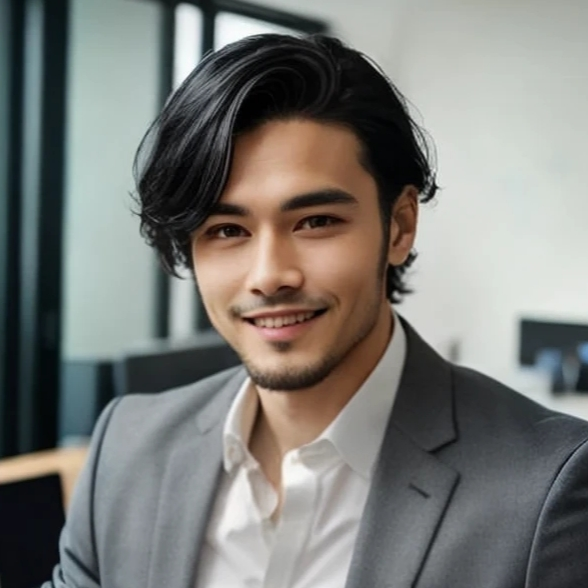
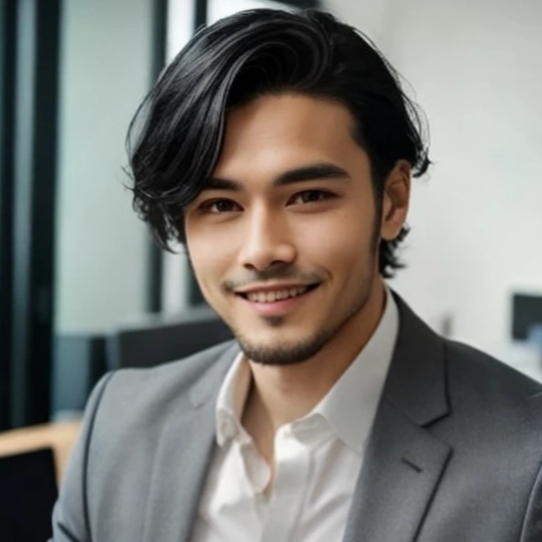
Cleanup assets
This commit is all about cleaning up assets and modifying some of the
existing ones. Updated two TeamShowcase photos, and also changed the
tab text to "Skylite" and added own favicon icon to the project.

diff --git a/src/components/TeamShowcase.vue b/src/components/TeamShowcase.vue
@@ -84,7 +84,7 @@ onMounted(() => {
                 <div class="emp-visual">
                     <div class="photo-wrapper">
                         <div class="photo-box">
-                            <img loading="lazy" class="emp-photo shadow-black" src="../assets/emp-images/natalie.jpg" />
+                            <img loading="lazy" class="emp-photo shadow-black" src="../assets/emp-images/anna.jpg" />
                         </div>
                     </div>
                 </div>
@@ -109,18 +109,18 @@ onMounted(() => {
                 <div class="emp-visual">
                     <div class="photo-wrapper">
                         <div class="photo-box">
-                            <img loading="lazy" class="emp-photo shadow-black" src="../assets/emp-images/julia.jpg" />
+                            <img loading="lazy" class="emp-photo shadow-black" src="../assets/emp-images/kate.jpg" />
                         </div>
                     </div>
                 </div>
                 <div class="emp-info">
                     <div class="emp-segment">
-                        <p class="emp-credentials"> Julia Reese </p>
+                        <p class="emp-credentials"> Kate Reese </p>
                         <p class="emp-role"> UX designer </p>
                     </div>
                     <div class="emp-segment">
                         <span class="emp-desc">
-                            Julia knows exactly how to turn a usual product into an exceptional masterpiece. Her vast knowledge in the field and aesthetic sense turn
+                            Kate knows exactly how to turn a usual product into an exceptional masterpiece. Her vast knowledge in the field and aesthetic sense turn
                             any commercial item into an enjoyable experience.
                         </span>
                         <a class="emp-button" href="./team" @click.prevent="emit('redirectMessage', '/team')" > Book a meeting </a>

diff --git a/src/components/Stats.vue b/src/components/Stats.vue
@@ -369,7 +369,7 @@ onMounted(() => {
         width: 100%;
         height: 100%;
         background-color: #ddd;
-        background-image: url(../assets/bg5.png);
+        background-image: url(../assets/collab-img.png);
         background-size: cover;
         border-radius: 2.5%;
         box-shadow: 0 0 .5rem .2rem #222;

diff --git a/index.html b/index.html
@@ -4,7 +4,7 @@
     <meta charset="UTF-8">
     <link rel="icon" href="/favicon.ico">
     <meta name="viewport" content="width=device-width, initial-scale=1.0">
-    <title>Vite App</title>
+    <title>Skylite</title>
   </head>
   <body>
     <div id="app"></div>

diff --git a/src/components/Start.vue b/src/components/Start.vue
@@ -151,7 +151,7 @@ onMounted(() => {
     width: 50%;
     display: flex;
     align-items: center;
-    justify-content: end;
+    justify-content: flex-end;
 }
 
 .link-text {
